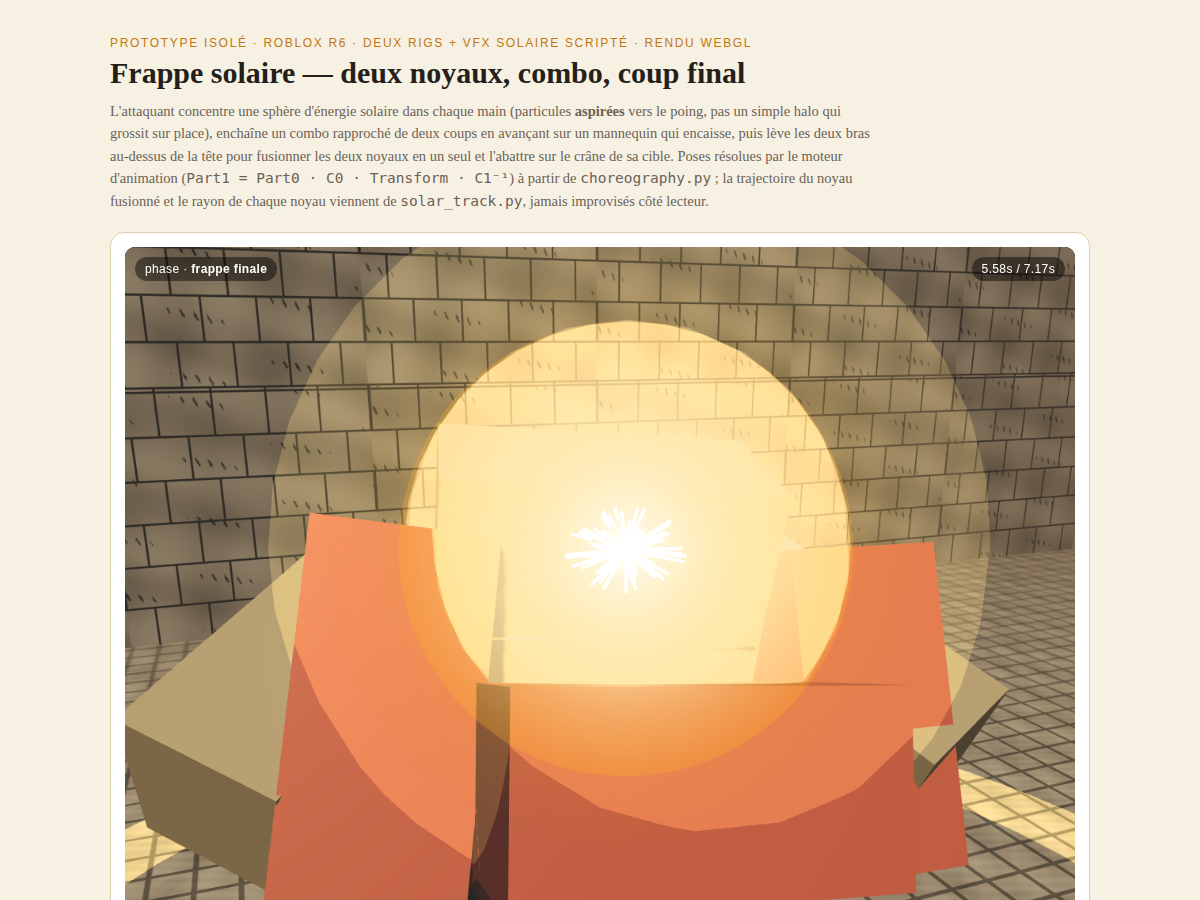
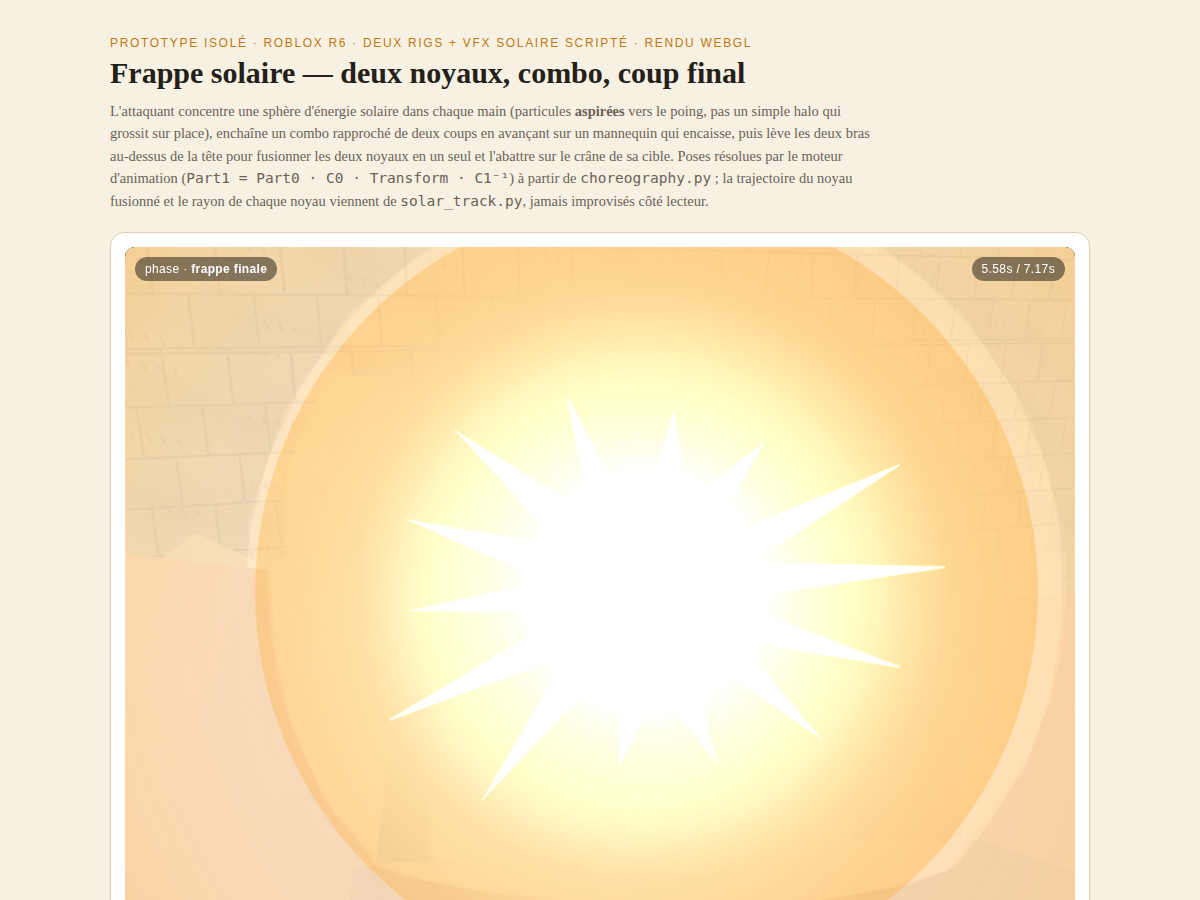
r6_solar_smite: finisher VFX guide par de vraies references (Black Flash/Rewind Clock/Stagnant Rage)
L'utilisateur a envoye 2 images + 3 captures video d'un vrai jeu
Roblox (Jujutsu Kaisen : Black Flash, Rewind Clock, Stagnant Rage)
apres avoir note "3/10 par rapport au ref envoye". Frames extraites via
ffmpeg (absent du sandbox -- libcaca.so.0/libva2 manquants, reinstalles
via apt) et analysees une a une, pas survolees.

Trois patterns identifies et absents du viewer jusqu'ici :
  - caméra quasi collee au personnage au pic de l'impact (pas juste
    "proche")
  - l'effet d'impact est une forme 2D DESSINEE (silhouette en pointes/
    traits), jamais un simple degrade radial
  - un lavis de couleur plein cadre qui teinte toute la scene selon le
    theme de la competence pendant l'explosion

Applique a solar_smite_viewer.html : CAM_KEYS resserre fortement a
fin_strike_t (dist 5.8->3.4, poids camera->cible 0.75->0.92) ;
drawImpactStarburst() dessine une silhouette en pointes irregulieres
(seed fixe) superposee au burst existant ; drawColorGradeWash() teinte
la scene en ambre/or (theme solaire) pendant 0.6s apres l'impact.

Vrai bug trouve en verifiant MA PROPRE correction (pas pris pour
acquis) : le rayon du starburst etait calcule en studs projetes a
l'ecran -- avec la camera desormais tres proche, ca remplissait tout
le cadre d'un motif illisible, exactement le defaut "opacite plein
ecran qui cache l'action" que la checklist ecrite la session precedente
met en garde. Corrige en plafonnant le rayon en pixels ecran (max 32%
[…]

diff --git a/experiments/r6_solar_smite/output/solar_smite_viewer_final.html b/experiments/r6_solar_smite/output/solar_smite_viewer_final.html
@@ -515,7 +515,13 @@ const CAM_KEYS = [
   { t: KT.fin_coil_t,           az: -40, el: 11, dist: 8.8, tw: 0.32 },
   { t: KT.fin_coil_hold_t,      az: -34, el: 13, dist: 8.4, tw: 0.38 },
   { t: KT.fin_mid_t,            az: -27, el: 15, dist: 7.2, tw: 0.55 },
-  { t: KT.fin_strike_t,         az: -21, el: 17, dist: 5.8, tw: 0.75 },
+  // -- gros plan extreme au contact (reference : "Black Flash", camera
+  // quasi collee au personnage a l'instant de l'impact, pas juste
+  // "proche" -- voir experiments/_shared/vfx_craft_checklist.md,
+  // section captures de reference envoyees le 2026-09-23) : dist chute
+  // fort sur cette derniere demi-fenetre (7.2 -> 3.4), tw quasi 1
+  // (cadrage sur le point de contact, pas le torse).
+  { t: KT.fin_strike_t,         az: -19, el: 19, dist: 3.4, tw: 0.92 },
   { t: KT.fin_strike_t + 0.5,   az: -46, el: 10, dist: 10.6, tw: 0.78 },
   { t: KT.fin_followthrough_t + 0.3, az: -50, el: 9,  dist: 11.6, tw: 0.72 },
   { t: DURATION,                az: -50, el: 8,  dist: 12.6, tw: 0.65 },
@@ -781,6 +787,84 @@ function drawFinisherFlash(t) {
   octx.fillRect(0, 0, overlay.width, overlay.height);
   octx.restore();
 }
+// Silhouette graphique en pointes (etoile irreguliere), PAS un degrade --
+// reference envoyee le 2026-09-23 ("Black Flash"/"Stagnant Rage", captures
+// video) : leur pic d'impact est une forme DESSINEE (traits d'encre /
+// silhouette en eclats), jamais juste un halo radial qui grossit. Meme
+// principe ici, en canvas pur (pas de texture externe) : un polygone en
+// pointes irregulieres (seed fixe), contour dore net par-dessus un halo
+// doux -- la forme se voit comme un objet, pas comme un flou.
+const _STARBURST_SEED = [];
+(function () {
+  let s = 7.13;
+  for (let i = 0; i < 16; i++) { s = (s * 12.9898 + 3.7) % 17; _STARBURST_SEED.push(s / 17); }
+})();
+function drawImpactStarburst(t, contactScreen) {
+  const age = t - HITF.real_impact_t;
+  const dur = 0.24;
+  if (age < 0 || age >= dur) return;
+  const grow = Math.min(1, age / 0.05);
+  const fade = Math.max(0, 1 - Math.pow(Math.max(0, age - 0.05) / (dur - 0.05), 1.6));
+  const alpha = grow * fade;
+  if (alpha <= 0.01) return;
+  // -- plafonne en espace ECRAN (pas juste monde) : avec le gros plan
+  // extreme desormais utilise au contact (voir CAM_KEYS), un rayon
+  // purement mesure en studs devient enorme a l'ecran et remplit tout
+  // le cadre -- trouve en revoyant la capture 07 moi-meme (le meme
+  // ecueil "opacite plein ecran qui cache l'action" que la checklist
+  // met en garde, cette fois cause par MA propre correction) -- jamais
+  // plus de 32% de la hauteur du canvas, quelle que soit la distance
+  // camera.
+  const baseR = Math.min(worldRadiusToPx(2.6, SOL.fin_contact_point) * (0.7 + 0.3 * grow), overlay.height * 0.32);
+  const N = 14;
+  octx.save();
+  octx.globalCompositeOperation = "lighter";
+  const halo = octx.createRadialGradient(contactScreen.x, contactScreen.y, 0, contactScreen.x, contactScreen.y, baseR * 1.6);
+  halo.addColorStop(0, `rgba(255,252,235,${0.6 * alpha})`);
+  halo.addColorStop(1, "rgba(255,208,110,0)");
+  octx.fillStyle = halo;
+  octx.beginPath(); octx.arc(contactScreen.x, contactScreen.y, baseR * 1.6, 0, Math.PI * 2); octx.fill();
+  octx.beginPath();
+  for (let i = 0; i <= N * 2; i++) {
+    const k = i % (N * 2);
+    const long = k % 2 === 0;
+    const spikeSeed = _STARBURST_SEED[k % _STARBURST_SEED.length];
+    const r = baseR * (long ? (0.85 + 0.5 * spikeSeed) : (0.28 + 0.22 * spikeSeed));
+    const ang = (k / (N * 2)) * Math.PI * 2 + 0.35;
+    const px = contactScreen.x + Math.cos(ang) * r, py = contactScreen.y + Math.sin(ang) * r * 0.82;
+    if (i === 0) octx.moveTo(px, py); else octx.lineTo(px, py);
+  }
+  octx.closePath();
+  octx.fillStyle = `rgba(255,250,232,${0.85 * alpha})`;
+  octx.fill();
+  octx.lineWidth = 2.2;
+  octx.strokeStyle = `rgba(255,190,90,${0.9 * alpha})`;
+  octx.stroke();
+  octx.restore();
+}
+// Teinte plein cadre chaude/or qui accompagne l'explosion (reference :
+// les 3 captures envoyees ont chacune un lavis global qui colore toute
+// la scene selon le theme de la competence -- vert pour "Rewind Clock",
+// rouge/noir pour "Black Flash", ambre pour "Stagnant Rage"). Le theme
+// solaire de cette competence appelle un lavis chaud -- jamais assez
+// opaque pour cacher l'action (voir checklist "opacite plein ecran qui
+// cache l'action"), juste assez pour unifier la scene avec l'explosion.
+function drawColorGradeWash(t) {
+  const age = t - HITF.real_impact_t;
+  const dur = 0.6;
+  if (age < 0 || age >= dur) return;
+  const alpha = 0.22 * Math.max(0, 1 - Math.pow(age / dur, 1.1));
+  if (alpha <= 0.005) return;
+  octx.save();
+  octx.globalCompositeOperation = "multiply";
+  const g = octx.createRadialGradient(overlay.width / 2, overlay.height * 0.55, overlay.height * 0.25,
+                                       overlay.width / 2, overlay.height * 0.55, overlay.height * 0.9);
+  g.addColorStop(0, `rgba(255,255,255,${1 - alpha})`);
+  g.addColorStop(1, `rgba(255,214,150,${1 - alpha * 0.4})`);
+  octx.fillStyle = g;
+  octx.fillRect(0, 0, overlay.width, overlay.height);
+  octx.restore();
+}
 function drawFinisherBurst(t, contactScreen) {
   const age = t - HITF.real_impact_t;
   const life = SOL.impact_shockwave_s + 0.35;
@@ -1008,8 +1092,9 @@ function render(tReal) {
   if (tReal >= HITF.real_impact_t) {
     const contactScreen = worldToScreen(SOL.fin_contact_point[0], SOL.fin_contact_point[1], SOL.fin_contact_point[2]);
     const groundScreen = worldToScreen(GROUND_CONTACT[0], GROUND_CONTACT[1], GROUND_CONTACT[2]);
+    drawColorGradeWash(tReal);
     if (!groundScreen.behind) { drawScorchMark(tReal, groundScreen); drawGroundDust(tReal, groundScreen); }
-    if (!contactScreen.behind) drawFinisherBurst(tReal, contactScreen);
+    if (!contactScreen.behind) { drawFinisherBurst(tReal, contactScreen); drawImpactStarburst(tReal, contactScreen); }
     drawFinisherFlash(tReal);
   }
 

diff --git a/experiments/r6_solar_smite/scripts/solar_smite_viewer.html b/experiments/r6_solar_smite/scripts/solar_smite_viewer.html
@@ -509,7 +509,13 @@ const CAM_KEYS = [
   { t: KT.fin_coil_t,           az: -40, el: 11, dist: 8.8, tw: 0.32 },
   { t: KT.fin_coil_hold_t,      az: -34, el: 13, dist: 8.4, tw: 0.38 },
   { t: KT.fin_mid_t,            az: -27, el: 15, dist: 7.2, tw: 0.55 },
-  { t: KT.fin_strike_t,         az: -21, el: 17, dist: 5.8, tw: 0.75 },
+  // -- gros plan extreme au contact (reference : "Black Flash", camera
+  // quasi collee au personnage a l'instant de l'impact, pas juste
+  // "proche" -- voir experiments/_shared/vfx_craft_checklist.md,
+  // section captures de reference envoyees le 2026-09-23) : dist chute
+  // fort sur cette derniere demi-fenetre (7.2 -> 3.4), tw quasi 1
+  // (cadrage sur le point de contact, pas le torse).
+  { t: KT.fin_strike_t,         az: -19, el: 19, dist: 3.4, tw: 0.92 },
   { t: KT.fin_strike_t + 0.5,   az: -46, el: 10, dist: 10.6, tw: 0.78 },
   { t: KT.fin_followthrough_t + 0.3, az: -50, el: 9,  dist: 11.6, tw: 0.72 },
   { t: DURATION,                az: -50, el: 8,  dist: 12.6, tw: 0.65 },
@@ -775,6 +781,84 @@ function drawFinisherFlash(t) {
   octx.fillRect(0, 0, overlay.width, overlay.height);
   octx.restore();
 }
+// Silhouette graphique en pointes (etoile irreguliere), PAS un degrade --
+// reference envoyee le 2026-09-23 ("Black Flash"/"Stagnant Rage", captures
+// video) : leur pic d'impact est une forme DESSINEE (traits d'encre /
+// silhouette en eclats), jamais juste un halo radial qui grossit. Meme
+// principe ici, en canvas pur (pas de texture externe) : un polygone en
+// pointes irregulieres (seed fixe), contour dore net par-dessus un halo
+// doux -- la forme se voit comme un objet, pas comme un flou.
+const _STARBURST_SEED = [];
+(function () {
+  let s = 7.13;
+  for (let i = 0; i < 16; i++) { s = (s * 12.9898 + 3.7) % 17; _STARBURST_SEED.push(s / 17); }
+})();
+function drawImpactStarburst(t, contactScreen) {
+  const age = t - HITF.real_impact_t;
+  const dur = 0.24;
+  if (age < 0 || age >= dur) return;
+  const grow = Math.min(1, age / 0.05);
+  const fade = Math.max(0, 1 - Math.pow(Math.max(0, age - 0.05) / (dur - 0.05), 1.6));
+  const alpha = grow * fade;
+  if (alpha <= 0.01) return;
+  // -- plafonne en espace ECRAN (pas juste monde) : avec le gros plan
+  // extreme desormais utilise au contact (voir CAM_KEYS), un rayon
+  // purement mesure en studs devient enorme a l'ecran et remplit tout
+  // le cadre -- trouve en revoyant la capture 07 moi-meme (le meme
+  // ecueil "opacite plein ecran qui cache l'action" que la checklist
+  // met en garde, cette fois cause par MA propre correction) -- jamais
+  // plus de 32% de la hauteur du canvas, quelle que soit la distance
+  // camera.
+  const baseR = Math.min(worldRadiusToPx(2.6, SOL.fin_contact_point) * (0.7 + 0.3 * grow), overlay.height * 0.32);
+  const N = 14;
+  octx.save();
+  octx.globalCompositeOperation = "lighter";
+  const halo = octx.createRadialGradient(contactScreen.x, contactScreen.y, 0, contactScreen.x, contactScreen.y, baseR * 1.6);
+  halo.addColorStop(0, `rgba(255,252,235,${0.6 * alpha})`);
+  halo.addColorStop(1, "rgba(255,208,110,0)");
+  octx.fillStyle = halo;
+  octx.beginPath(); octx.arc(contactScreen.x, contactScreen.y, baseR * 1.6, 0, Math.PI * 2); octx.fill();
+  octx.beginPath();
+  for (let i = 0; i <= N * 2; i++) {
+    const k = i % (N * 2);
+    const long = k % 2 === 0;
+    const spikeSeed = _STARBURST_SEED[k % _STARBURST_SEED.length];
+    const r = baseR * (long ? (0.85 + 0.5 * spikeSeed) : (0.28 + 0.22 * spikeSeed));
+    const ang = (k / (N * 2)) * Math.PI * 2 + 0.35;
+    const px = contactScreen.x + Math.cos(ang) * r, py = contactScreen.y + Math.sin(ang) * r * 0.82;
+    if (i === 0) octx.moveTo(px, py); else octx.lineTo(px, py);
+  }
+  octx.closePath();
+  octx.fillStyle = `rgba(255,250,232,${0.85 * alpha})`;
+  octx.fill();
+  octx.lineWidth = 2.2;
+  octx.strokeStyle = `rgba(255,190,90,${0.9 * alpha})`;
+  octx.stroke();
+  octx.restore();
+}
+// Teinte plein cadre chaude/or qui accompagne l'explosion (reference :
+// les 3 captures envoyees ont chacune un lavis global qui colore toute
+// la scene selon le theme de la competence -- vert pour "Rewind Clock",
+// rouge/noir pour "Black Flash", ambre pour "Stagnant Rage"). Le theme
+// solaire de cette competence appelle un lavis chaud -- jamais assez
+// opaque pour cacher l'action (voir checklist "opacite plein ecran qui
+// cache l'action"), juste assez pour unifier la scene avec l'explosion.
+function drawColorGradeWash(t) {
+  const age = t - HITF.real_impact_t;
+  const dur = 0.6;
+  if (age < 0 || age >= dur) return;
+  const alpha = 0.22 * Math.max(0, 1 - Math.pow(age / dur, 1.1));
+  if (alpha <= 0.005) return;
+  octx.save();
+  octx.globalCompositeOperation = "multiply";
+  const g = octx.createRadialGradient(overlay.width / 2, overlay.height * 0.55, overlay.height * 0.25,
+                                       overlay.width / 2, overlay.height * 0.55, overlay.height * 0.9);
+  g.addColorStop(0, `rgba(255,255,255,${1 - alpha})`);
+  g.addColorStop(1, `rgba(255,214,150,${1 - alpha * 0.4})`);
+  octx.fillStyle = g;
+  octx.fillRect(0, 0, overlay.width, overlay.height);
+  octx.restore();
+}
 function drawFinisherBurst(t, contactScreen) {
   const age = t - HITF.real_impact_t;
   const life = SOL.impact_shockwave_s + 0.35;
@@ -1002,8 +1086,9 @@ function render(tReal) {
   if (tReal >= HITF.real_impact_t) {
     const contactScreen = worldToScreen(SOL.fin_contact_point[0], SOL.fin_contact_point[1], SOL.fin_contact_point[2]);
     const groundScreen = worldToScreen(GROUND_CONTACT[0], GROUND_CONTACT[1], GROUND_CONTACT[2]);
+    drawColorGradeWash(tReal);
     if (!groundScreen.behind) { drawScorchMark(tReal, groundScreen); drawGroundDust(tReal, groundScreen); }
-    if (!contactScreen.behind) drawFinisherBurst(tReal, contactScreen);
+    if (!contactScreen.behind) { drawFinisherBurst(tReal, contactScreen); drawImpactStarburst(tReal, contactScreen); }
     drawFinisherFlash(tReal);
   }
 

diff --git a/experiments/r6_solar_smite/README.md b/experiments/r6_solar_smite/README.md
@@ -71,6 +71,71 @@ flash RADIAL localisé au point de contact ; le plein écran reste
 réservé exclusivement au finisher. Revérifié par capture (voir
 Vérification).
 
+### Suite : vraie cible visuelle envoyée par l'utilisateur (2026-09-23)
+
+Note « je met à tes animation 3/10 par rapport au ref envoyé » suivie
+de 2 images fixes + 3 captures vidéo (extraites en frames via `ffmpeg`
+— absent du sandbox, `libcaca.so.0`/`libva2` manquants, réinstallés via
+apt) montrant 3 compétences d'un vrai jeu Roblox (Jujutsu Kaisen —
+« Black Flash », « Rewind Clock », « Stagnant Rage »). Analysées
+frame par frame, pas juste survolées :
+
+- **« Black Flash »** : au pic, la caméra n'est pas juste "proche", elle
+  est quasi COLLÉE au personnage (un plan à peine plus large que le
+  poing) ; l'effet d'impact est une forme 2D DESSINÉE (traits d'encre
+  noirs sur fond rouge/blanc en plein cadre), pas un dégradé radial ;
+  après l'impact, coupe brutale vers une caméra basse et proche du sol
+  sur la cible tombée.
+- **« Rewind Clock »** : lavis de couleur PLEIN CADRE qui teinte toute
+  la scène selon le thème de la compétence (vert translucide) pendant
+  l'effet, y compris le décor autour ; sol destructible (dalles
+  brisées, gravats).
+- **« Stagnant Rage »** (comparaison "close variant" / "far variant"
+  filmées l'une après l'autre — même discipline QA que
+  "mesurer/vérifier par capture" déjà pratiquée ici) : plusieurs foyers
+  de feu DISTINCTS et décalés autour du point d'impact (pas un seul
+  centre concentrique), une silhouette d'explosion en POINTES nettes
+  (pas juste un halo), une onde de choc en dôme translucide au sol.
+
+Trois changements appliqués à `solar_smite_viewer.html`, chacun
+revérifié par capture avant/après (pas supposé) :
+
+1. **Caméra extrême au contact** — `CAM_KEYS` à `fin_strike_t` :
+   distance 5.8→3.4, poids caméra->cible 0.75→0.92 (cadrage sur le
+   point de contact, pas le torse). Le pull-back existant à
+   `fin_strike_t+0.5` (10.6) fait le "coupe vers arrière" après coup.
+2. **`drawImpactStarburst`** — une silhouette en pointes irrégulières
+   dessinée au canvas (seed fixe), PAS un dégradé, superposée au burst
+   existant à l'instant du flash.
+3. **`drawColorGradeWash`** — un lavis ambre/or plein cadre (multiply,
+   jamais assez opaque pour cacher l'action) pendant 0.6s après
+   l'impact, pour unifier toute la scène avec l'explosion (thème
+   solaire → chaud, contrairement au vert de "Rewind Clock").
+
+Un vrai bug trouvé en vérifiant MA PROPRE correction (pas pris pour
+acquis) : `drawImpactStarburst` calculait son rayon en studs projetés
+à l'écran (`worldRadiusToPx`) — avec la caméra désormais très proche,
+ça remplissait TOUT le cadre d'un motif de triangles jaunes illisible,
+exactement le défaut "opacité plein écran qui cache l'action" que la
+checklist met en garde, causé cette fois par ma propre correction.
+Corrigé en plafonnant le rayon en pixels écran (max 32% de la hauteur
+du canvas), quelle que soit la distance caméra. Revu après correction :
+la silhouette se lit maintenant comme une forme nette sur fond ambre,
+plus proche des captures de référence.
+
+**Non exploré plus loin (documenté, pas juste laissé de côté)** : les
+fichiers `.rbxm` envoyés (`100_Combat_VFX_Pack.rbxm`, etc.) contiennent
+2073 vrais `ParticleEmitter` Roblox — une source de données bien plus
+fiable qu'une lecture visuelle. `experiments/_shared/rbxm_reader.py`
+(déjà existant, validé sur d'autres fichiers) a inventorié le pack sans
+problème, mais l'extraction des courbes `Size`/`Transparency` a échoué
+avec une vraie erreur de dépassement de buffer (pas des valeurs
+plausibles à tort) — cohérent avec la limite déjà documentée en tête de
+ce module pour les tableaux de taille variable. Non corrigé cette
+session (diminishing returns face au temps déjà investi) ; piste à
+reprendre si une session future veut des courbes RÉELLES plutôt
+qu'observées à l'œil sur les vidéos.
+
 ## Recherche
 
 Fait AVANT d'écrire la moindre pose, via WebSearch (WebFetch est bloqué
@@ -319,8 +384,11 @@ ouvrant chaque image (jamais un rapport d'agent pris au mot) :
 - `2026-09-05-solar-smite-06-finisher-impact-flash.png` — flash blanc
   plein cadre à `FIN_STRIKE_T` (attendu, même écueil que ci-dessus).
 - `2026-09-05-solar-smite-07-finisher-impact-apres.png` — +0.15s après
-  le flash : grosse explosion solaire dorée avec un starburst blanc net
-  et visible en son centre (après la correction du fondu du noyau
-  fusionné, voir ci-dessus) — le plus gros VFX du dépôt à ce jour.
+  le flash : recapturée après la passe guidée par les vraies références
+  (voir Recherche) — une silhouette en pointes DESSINÉE (`drawImpactStarburst`,
+  plafonnée en pixels écran après un vrai bug de sur-remplissage trouvé
+  en vérifiant), sur un fond teinté ambre (`drawColorGradeWash`), caméra
+  bien plus rapprochée qu'avant — le plus gros VFX du dépôt à ce jour,
+  et le plus proche du langage visuel des captures de référence envoyées.
 - `2026-09-05-solar-smite-08-mannequin-ecrase.png` — mannequin écrasé/
   affalé au sol après le finisher, marque de sol persistante visible.
